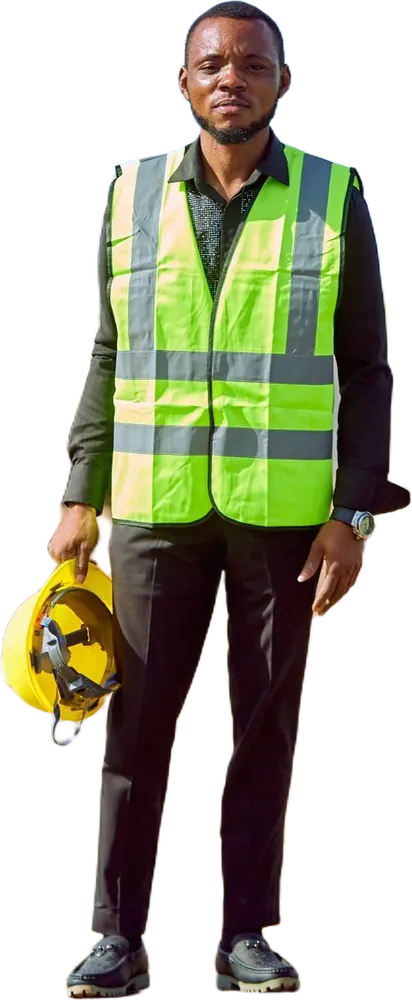
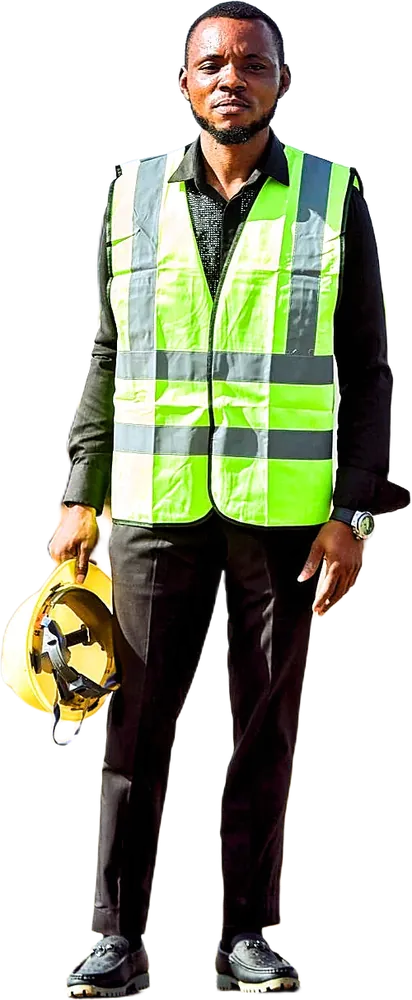
feat(images): applique le style de retouche de l'utilisateur à toutes les personnes
outils/retoucher.py reproduit les retouches faites à la main sur l'ingénieure
et l'acheteur (courbe de tons, netteté, clarté, saturation) ; les six autres
personnes du site sont retouchées avec.

diff --git a/outils/retoucher.py b/outils/retoucher.py
@@ -1,0 +1,224 @@
+"""Retouche « style GBIC » d'un détourage WebP RGBA (personnes du site).
+
+Reproduit le style des deux retouches faites à la main (ingenieure, acheteur) :
+  1. courbe de tons sur la luminance : ombres un peu plus denses, tons moyens et
+     hautes lumières nettement relevés (contraste global plus fort) ;
+  2. netteté fine (petit rayon) avec seuil anti-bruit ;
+  3. clarté (micro-contraste à rayon moyen) ;
+  4. saturation plus dense sur les couleurs déjà franches, gris et noirs protégés ;
+  5. compression douce des couleurs qui sortiraient de la gamme (pas d'aplat cramé).
+L'alpha n'est jamais modifié. Les zones transparentes n'influencent pas les flous
+(flous normalisés par l'alpha), donc pas de halo sombre sur le contour.
+
+Usage :
+    python outils/retoucher.py <entrée.webp> <sortie.webp> [--cote-ref 1000] [--qualite 90]
+
+--cote-ref : côté long (px) auquel l'image sera affichée sur le site. Les rayons
+ci-dessous sont donnés pour ce côté et agrandis si la source est plus grande.
+Dépendances : Pillow et numpy uniquement.
+"""
+import argparse
+import sys
+
+import numpy as np
+from PIL import Image
+
+# ---------------------------------------------------------------------------
+# Paramètres réglables
+# ---------------------------------------------------------------------------
+
+# Courbe de tons (entrée, sortie), 0-255, interpolée en douceur. Mesurée sur les deux
+# retouches : ombres un peu plus denses (32 -> 27), 80 inchangé, tons moyens et hautes
+# lumières nettement relevés (128 -> 156, 192 -> 227), blanc juste sous 255.
+COURBE = [
+    (0, 2), (16, 9), (32, 27), (48, 43), (64, 61), (80, 79), (96, 101),
+    (112, 128), (128, 156), (144, 179), (160, 198), (176, 214), (192, 227),
+    (208, 238), (224, 246), (240, 251), (255, 253),
+]
+# Dosage global de la courbe (0 = aucune, 1 = courbe telle quelle).
+COURBE_FORCE = 1.0
+# Couleurs vives (gilet orange, casque rouge) : la courbe est lue sur un mélange
+# luminance / canal le plus fort. 0 = luminance seule (les couleurs saturées sont
+# éclaircies comme des gris et se délavent), 1 = canal le plus fort (elles bougent peu).
+VIVES_LUMIERE = 0.65
+
+# Netteté fine : détail = L - flou(L, rayon), ajouté avec ce gain.
+NETTETE_GAIN = 1.4
+NETTETE_RAYON = 1.0      # px, pour une image au côté de référence
+NETTETE_SEUIL = 1.5      # en niveaux : les écarts plus petits (grain) sont épargnés
+
+# Clarté : flou(L, petit) - flou(L, grand), ajouté avec ce gain.
+CLARTE_GAIN = 0.225
+CLARTE_RAYON_PETIT = 3.0
+CLARTE_RAYON_GRAND = 24.0
+# Plafond doux du détail ajouté (niveaux) : limite les halos sur les bords très contrastés.
+DETAIL_MAX = 40.0
+
+# Couleur : la chroma (écart de chaque canal à la luminance) est multipliée par
+#   (1 + (SATURATION - 1) * protection(chroma)) * (L_sortie / L_entrée) ** SUIVI_LUMIERE
+SATURATION = 1.35
+CHROMA_PROTEGEE = 10.0   # en dessous : gris quasi neutres, pas de gain
+CHROMA_PLEINE = 50.0     # au-dessus : gain complet
+SUIVI_LUMIERE = 0.30     # la couleur suit un peu l'éclaircissement (0 = pas du tout)
+# Couleurs qui sortent de la gamme (orange fluo très éclairci) : 0 = on garde la lumière
+# et on désature (couleur délavée), 1 = on garde la saturation et on assombrit un peu.
+GAMME_GARDE_SATURATION = 0.0
+
+# Côté long d'affichage par défaut (le site publie les personnes à 1000 px).
+COTE_REF = 1000
+QUALITE = 90
+
+# Coefficients de luminance (Rec. 709 / sRGB)
+KR, KG, KB = 0.2126, 0.7152, 0.0722
+
+
+# ---------------------------------------------------------------------------
+# Outils
+# ---------------------------------------------------------------------------
+
+def _boite(x, r, axe):
+    """Flou boîte de rayon entier r le long d'un axe, bords répliqués."""
+    if r < 1:
+        return x
+    pad = [(0, 0)] * x.ndim
+    pad[axe] = (r + 1, r)
+    c = np.cumsum(np.pad(x, pad, mode="edge"), axis=axe, dtype=np.float64)
+    n = x.shape[axe]
+    haut = np.take(c, np.arange(2 * r + 1, 2 * r + 1 + n), axis=axe)
+    bas = np.take(c, np.arange(0, n), axis=axe)
+    return (haut - bas) / (2 * r + 1)
+
+
+def flou_gaussien(x, sigma):
+    """Flou gaussien approché (3 passes de flou boîte ; noyau 3x3 pour sigma < ~1.2)."""
+    if sigma <= 0:
+        return x
+    largeur = np.sqrt(12.0 * sigma * sigma / 3.0 + 1.0)
+    r = int(round((largeur - 1.0) / 2.0))
+    if r < 1:
+        k = np.exp(-np.array([1.0, 0.0, 1.0]) / (2.0 * sigma * sigma))
+        k /= k.sum()
+        for axe in (0, 1):
+            p = [(0, 0)] * x.ndim
+            p[axe] = (1, 1)
+            xp = np.pad(x, p, mode="edge")
+            n = x.shape[axe]
+            x = (k[0] * np.take(xp, np.arange(0, n), axis=axe)
+                 + k[1] * np.take(xp, np.arange(1, n + 1), axis=axe)
+                 + k[2] * np.take(xp, np.arange(2, n + 2), axis=axe))
+        return x
+    for _ in range(3):
+        x = _boite(x, r, 0)
+        x = _boite(x, r, 1)
+    return x
+
+
+def flou_alpha(x, poids, sigma):
+    """Flou normalisé par l'alpha : le fond transparent ne « bave » pas sur le sujet."""
+    return flou_gaussien(x * poids, sigma) / np.maximum(flou_gaussien(poids, sigma), 1e-4)
+
+
+def courbe_lisse(points):
+    """Table 0..255 d'une courbe monotone (interpolation cubique de Fritsch-Carlson)."""
+    xs = np.array([p[0] for p in points], dtype=float)
+    ys = np.array([p[1] for p in points], dtype=float)
+    h = np.diff(xs)
+    d = np.diff(ys) / h
+    m = np.zeros_like(xs)
+    m[0], m[-1] = d[0], d[-1]
+    for i in range(1, len(xs) - 1):
+        if d[i - 1] * d[i] > 0:
+            w1, w2 = 2 * h[i] + h[i - 1], h[i] + 2 * h[i - 1]
+            m[i] = (w1 + w2) / (w1 / d[i - 1] + w2 / d[i])
+    t = np.arange(256, dtype=float)
+    i = np.clip(np.searchsorted(xs, t, side="right") - 1, 0, len(xs) - 2)
+    s = (t - xs[i]) / h[i]
+    h00, h10 = 2 * s ** 3 - 3 * s ** 2 + 1, s ** 3 - 2 * s ** 2 + s
+    h01, h11 = -2 * s ** 3 + 3 * s ** 2, s ** 3 - s ** 2
+    return h00 * ys[i] + h10 * h[i] * m[i] + h01 * ys[i + 1] + h11 * h[i] * m[i + 1]
+
+
+def appliquer_table(table, v):
+    """Applique une table 0..255 à des valeurs flottantes (interpolation linéaire)."""
+    return np.interp(np.clip(v, 0, 255), np.arange(256), table)
+
+
+# ---------------------------------------------------------------------------
+# Retouche
+# ---------------------------------------------------------------------------
+
+def retoucher(rgba, cote_ref=COTE_REF):
+    """rgba : tableau uint8 (H, W, 4). Renvoie un tableau uint8 de même forme, alpha intact."""
+    rgb = rgba[..., :3].astype(np.float64)
+    alpha = rgba[..., 3]
+    poids = alpha.astype(np.float64) / 255.0
+    echelle = max(1.0, max(rgba.shape[:2]) / float(cote_ref))
+
+    lum = KR * rgb[..., 0] + KG * rgb[..., 1] + KB * rgb[..., 2]
+
+    # 1. courbe de tons
+    table = courbe_lisse(COURBE)
+    clarte_percue = lum + VIVES_LUMIERE * (rgb.max(-1) - lum)
+    base = lum + COURBE_FORCE * (appliquer_table(table, clarte_percue) - clarte_percue)
+
+    # 2. netteté fine, avec seuil anti-grain
+    fin = lum - flou_alpha(lum, poids, NETTETE_RAYON * echelle)
+    fin *= 1.0 - np.exp(-(fin / max(NETTETE_SEUIL, 1e-3)) ** 2)
+
+    # 3. clarté (micro-contraste)
+    moyen = (flou_alpha(lum, poids, CLARTE_RAYON_PETIT * echelle)
+             - flou_alpha(lum, poids, CLARTE_RAYON_GRAND * echelle))
+
+    detail = NETTETE_GAIN * fin + CLARTE_GAIN * moyen
+    detail = DETAIL_MAX * np.tanh(detail / DETAIL_MAX)
+    lum_sortie = np.clip(base + detail, 0, 255)
+
+    # 4. couleur : chroma renforcée sur les couleurs franches, gris protégés
+    chroma = rgb - lum[..., None]
+    norme = np.sqrt((chroma ** 2).sum(-1))
+    protection = np.clip((norme - CHROMA_PROTEGEE) / max(CHROMA_PLEINE - CHROMA_PROTEGEE, 1e-3), 0, 1)
+    protection = protection * protection * (3 - 2 * protection)  # transition douce
+    gain = 1.0 + (SATURATION - 1.0) * protection
+    rapport = np.clip((lum_sortie + 2.0) / (lum + 2.0), 0.0, 2.0)
+    gain = gain * rapport ** SUIVI_LUMIERE
+    chroma = chroma * gain[..., None]
+
+    # 5. compression de gamme : deux façons de ramener dans 0..255 une couleur qui déborde,
+    #    mélangées par GAMME_GARDE_SATURATION :
+    #    a) réduire la chroma en gardant la luminance (couleur plus pâle) ;
+    #    b) réduire l'ensemble en gardant les proportions R:G:B (couleur un peu plus sombre).
+    haut = chroma.max(-1)
+    bas = chroma.min(-1)
+    k = np.ones_like(lum_sortie)
+    depasse_haut = lum_sortie + haut > 255
+    k[depasse_haut] = (255 - lum_sortie[depasse_haut]) / np.maximum(haut[depasse_haut], 1e-6)
+    depasse_bas = lum_sortie + bas < 0
+    k[depasse_bas] = np.minimum(k[depasse_bas], lum_sortie[depasse_bas] / np.maximum(-bas[depasse_bas], 1e-6))
+    pale = lum_sortie[..., None] + chroma * np.clip(k, 0, 1)[..., None]
+    brut = np.maximum(lum_sortie[..., None] + chroma, 0)
+    sombre = brut * np.minimum(1.0, 255.0 / np.maximum(brut.max(-1), 1e-6))[..., None]
+    sortie = (1 - GAMME_GARDE_SATURATION) * pale + GAMME_GARDE_SATURATION * sombre
+
+    resultat = np.empty_like(rgba)
+    resultat[..., :3] = np.clip(np.round(sortie), 0, 255).astype(np.uint8)
+    resultat[..., 3] = alpha
+    return resultat
+
+
+def main(argv=None):
+    p = argparse.ArgumentParser(description="Retouche style GBIC d'un détourage WebP RGBA.")
+    p.add_argument("entree")
+    p.add_argument("sortie")
+    p.add_argument("--cote-ref", type=int, default=COTE_REF,
+                   help="côté long d'affichage sur le site (px), défaut %(default)s")
+    p.add_argument("--qualite", type=int, default=QUALITE)
+    a = p.parse_args(argv)
+
+    im = Image.open(a.entree).convert("RGBA")
+    out = Image.fromarray(retoucher(np.asarray(im), a.cote_ref), "RGBA")
+    out.save(a.sortie, "WEBP", quality=a.qualite, method=6, exact=True)
+    print(f"{a.entree} -> {a.sortie} ({im.size[0]}x{im.size[1]})")
+
+
+if __name__ == "__main__":
+    sys.exit(main())
